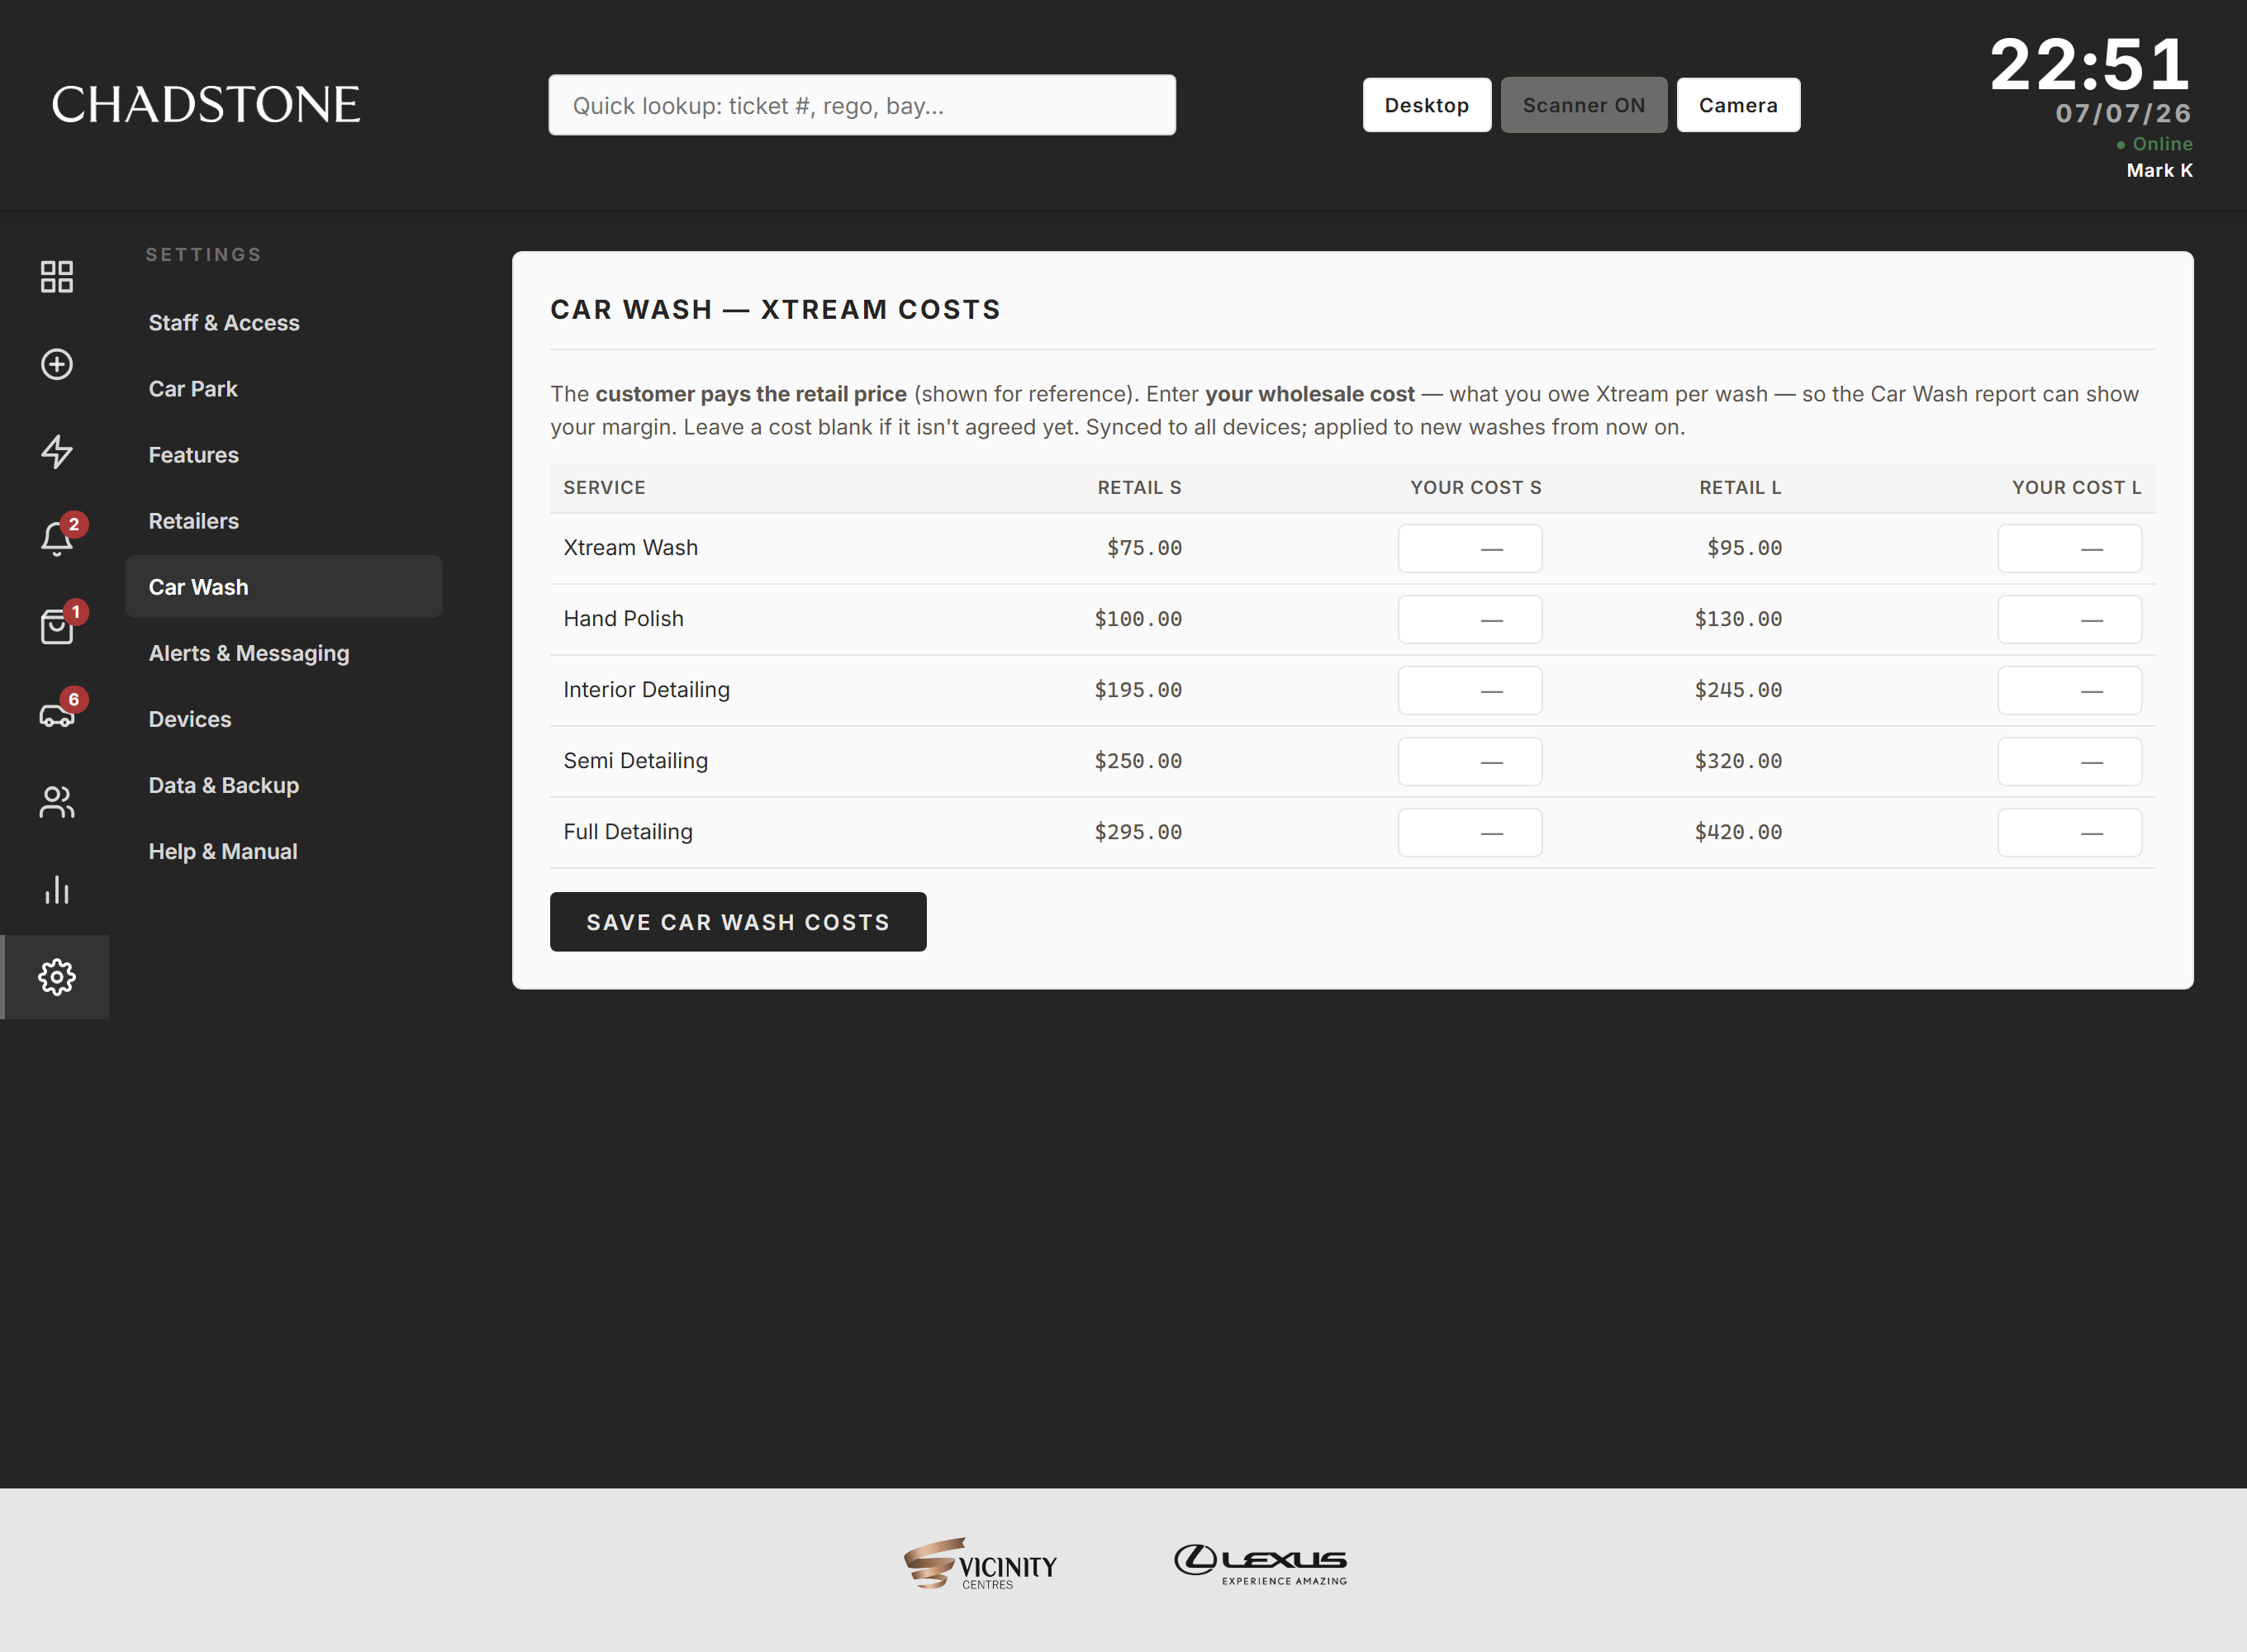
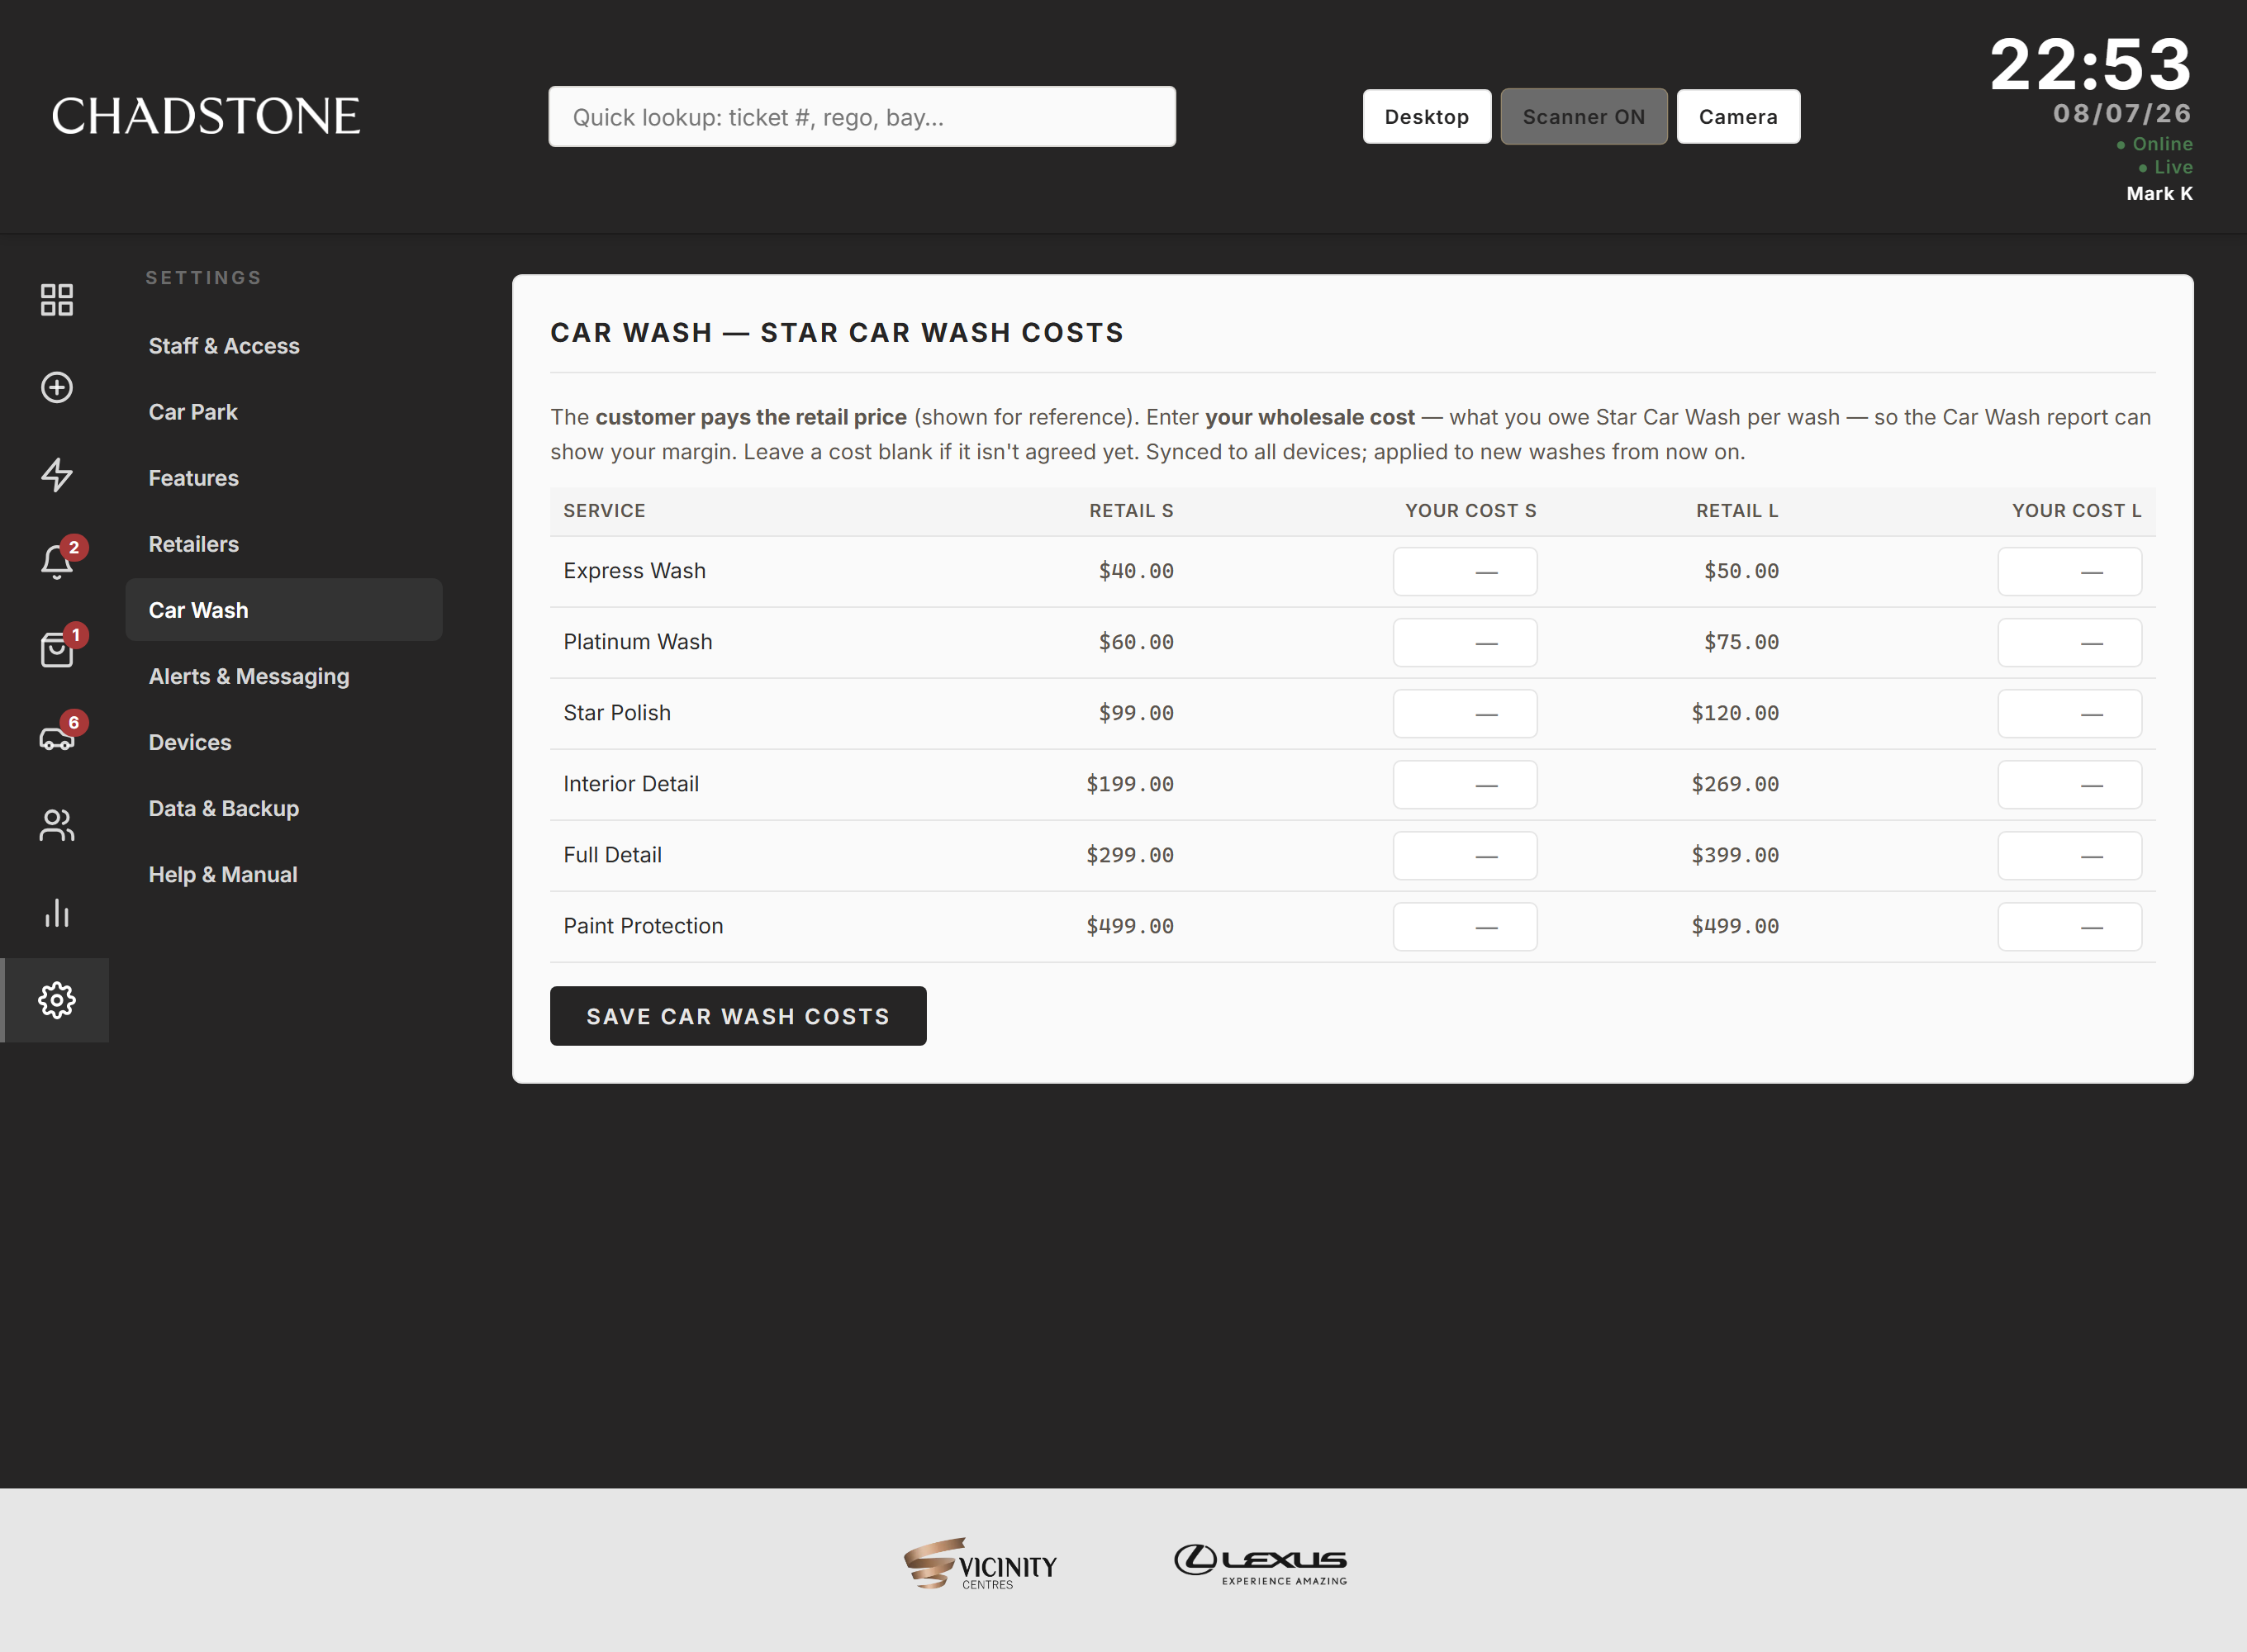
Car wash: switch vendor to Star Car Wash with live menu prices
Chadstone's in-centre wash (Car Park A) is Star Car Wash, not Xtream. Replace
the package list and prices with Star's real menu, scraped from
starcarwash.com.au/centres/chadstone-1 (Sedan = Small, SUV/4WD = Large;
X-Large/XXL are a checkout override):

  Express Wash    $40 / $50
  Platinum Wash   $60 / $75
  Star Polish     $99 / $120
  Interior Detail $199 / $269
  Full Detail     $299 / $399
  Paint Protection $499 / $499

- WASH_PACKAGES + the New Entry picker options updated.
- Rename "Xtream" → "Star Car Wash" everywhere (picker label, Settings costs,
  Car Wash report, comments, manual, decks) and add the Star reference link/phone.
- Regenerated the Settings → Car Wash manual screenshot.

diff --git a/index_v2.html b/index_v2.html
@@ -1597,15 +1597,16 @@ body.dark-mode .scan-banner {
     <div class="form-grid mobile-hide-now">
       <div class="form-field">
         <label class="form-label">Car wash (optional)
-          <span style="font-weight:normal;color:var(--text-muted);text-transform:none;letter-spacing:0;font-size:11px;margin-left:6px">Xtream Car Care · added to bill</span>
+          <span style="font-weight:normal;color:var(--text-muted);text-transform:none;letter-spacing:0;font-size:11px;margin-left:6px">Star Car Wash · added to bill</span>
         </label>
         <select id="f-wash-service" class="form-select" onchange="updateWashPriceHint('f')">
           <option value="">— No car wash —</option>
-          <option value="xtream">Xtream Wash</option>
-          <option value="hand_polish">Hand Polish</option>
-          <option value="interior">Interior Detailing</option>
-          <option value="semi">Semi Detailing</option>
-          <option value="full">Full Detailing</option>
+          <option value="express">Express Wash</option>
+          <option value="platinum">Platinum Wash</option>
+          <option value="polish">Star Polish</option>
+          <option value="interior">Interior Detail</option>
+          <option value="full">Full Detail</option>
+          <option value="paint">Paint Protection</option>
         </select>
       </div>
       <div class="form-field">
@@ -2200,7 +2201,7 @@ body.dark-mode .scan-banner {
   <div class="section rep-section" data-repgroup="payments">
     <div class="section-header">
       <div class="section-title">Car Wash</div>
-      <div style="font-size:11px;color:var(--text-muted);font-style:italic">Xtream Car Care · paid on the valet bill, settle with Xtream separately</div>
+      <div style="font-size:11px;color:var(--text-muted);font-style:italic">Star Car Wash · paid on the valet bill, settle with Star separately</div>
     </div>
     <div id="rep-carwash"><div class="empty">No car washes in this range</div></div>
   </div>
@@ -2625,10 +2626,10 @@ body.dark-mode .scan-banner {
 
   <div class="section set-section" data-setgroup="carwash">
     <div class="section-header">
-      <div class="section-title">Car Wash — Xtream Costs</div>
+      <div class="section-title">Car Wash — Star Car Wash Costs</div>
     </div>
     <div style="font-size:13px;color:var(--text-muted);line-height:1.6;margin-bottom:12px">
-      The <strong>customer pays the retail price</strong> (shown for reference). Enter <strong>your wholesale cost</strong> — what you owe Xtream per wash — so the Car Wash report can show your margin. Leave a cost blank if it isn't agreed yet. Synced to all devices; applied to new washes from now on.
+      The <strong>customer pays the retail price</strong> (shown for reference). Enter <strong>your wholesale cost</strong> — what you owe Star Car Wash per wash — so the Car Wash report can show your margin. Leave a cost blank if it isn't agreed yet. Synced to all devices; applied to new washes from now on.
     </div>
     <div id="wash-cost-table"></div>
     <button class="btn btn-primary" onclick="saveWashCost()" style="margin-top:14px">Save Car Wash Costs</button>
@@ -3283,19 +3284,22 @@ function fmtMoney(amount) {
 }
 
 // ═══════════════════════════════════════════════════
-// CAR WASH — Xtream Car Care (in-centre)
+// CAR WASH — Star Car Wash (Chadstone, Car Park A)
 // Customer pays the menu price on the valet bill; valet drives the car to/from
-// Xtream and settles with them separately. Small = sedan/hatch, Large = SUV/4WD.
+// Star Car Wash and settles with them separately. Small = sedan/hatch,
+// Large = SUV/4WD (Star's X-Large/XXL sizes → override the price at checkout).
+// Menu: starcarwash.com.au/centres/chadstone-1 · 03 9695 5406.
 // An entry's carWash record:
 //   { service, size, price, status, requestedAt, doneAt, settledAt, settledBy }
-// status: 'requested' (booked) → 'at_wash' (with Xtream) → 'ready' (back, clean)
+// status: 'requested' (booked) → 'at_wash' (with Star) → 'ready' (back, clean)
 // ═══════════════════════════════════════════════════
 const WASH_PACKAGES = [
-  { key: 'xtream',      name: 'Xtream Wash',        small: 75,  large: 95  },
-  { key: 'hand_polish', name: 'Hand Polish',        small: 100, large: 130 },
-  { key: 'interior',    name: 'Interior Detailing', small: 195, large: 245 },
-  { key: 'semi',        name: 'Semi Detailing',     small: 250, large: 320 },
-  { key: 'full',        name: 'Full Detailing',     small: 295, large: 420 },
+  { key: 'express',   name: 'Express Wash',     small: 40,  large: 50  },
+  { key: 'platinum',  name: 'Platinum Wash',    small: 60,  large: 75  },
+  { key: 'polish',    name: 'Star Polish',      small: 99,  large: 120 },
+  { key: 'interior',  name: 'Interior Detail',  small: 199, large: 269 },
+  { key: 'full',      name: 'Full Detail',      small: 299, large: 399 },
+  { key: 'paint',     name: 'Paint Protection', small: 499, large: 499 },
 ];
 const WASH_STATUS_LABELS = { requested: 'Wash booked', at_wash: 'At car wash', ready: 'Washed — back' };
 function washPackage(key) { return WASH_PACKAGES.find(p => p.key === key) || null; }
@@ -3305,7 +3309,7 @@ function washLabel(cw) {
   const p = washPackage(cw.service);
   return (p ? p.name : cw.service) + (cw.size === 'large' ? ' (L)' : ' (S)');
 }
-// Wholesale cost owed to Xtream per package/size, set by the manager in
+// Wholesale cost owed to Star Car Wash per package/size, set by the manager in
 // Settings → Car Wash (cloudSettings.washCost = { service: {small, large} }).
 function getWashCost(service, size) {
   const t = (typeof cloudSettings !== 'undefined' && cloudSettings && cloudSettings.washCost) || null;
@@ -4954,7 +4958,7 @@ function confirmCheckout() {
   if (incidentRec.condition === 'damage') cloudAudit('return_damage', 'entry', e.id, { ticket: e.ticket, ack: incidentRec.ack });
   // Car wash is charged on top of the parking/valet fee and paid on this same
   // bill; record when it was collected (kept separate from totalFee so parking
-  // revenue stays clean and the Xtream settlement is easy to total).
+  // revenue stays clean and the Star Car Wash settlement is easy to total).
   if (e.carWash && e.carWash.service) e.carWash.paidAt = e.timeOut;
   e.parkingFee = payStatus === 'comp' ? 0 : parkingFee;
   e.valetFee = payStatus === 'comp' ? 0 : valetFee;
@@ -5402,7 +5406,7 @@ function saveLoyaltySettings() {
   if (typeof quickToast === 'function') quickToast(enabled ? ('✓ Loyalty on — free valet every ' + cfg.threshold + ' visits') : '✓ Loyalty rewards turned off');
   try { const cv = document.getElementById('view-customers'); if (cv && cv.classList.contains('active')) renderCustomers(); } catch (e) {}
 }
-// Car wash wholesale (Xtream) cost editor — one row per package, Small + Large.
+// Car wash wholesale (Star Car Wash) cost editor — one row per package, Small + Large.
 function renderWashSettings() {
   const c = document.getElementById('wash-cost-table');
   if (!c) return;
@@ -9722,7 +9726,7 @@ function renderRepeatCustomers(filtered) {
 }
 
 // Car Wash: washes in range — collected vs still on site — with what you owe
-// Xtream (cost) and your margin, plus a per-service settlement table.
+// Star Car Wash (cost) and your margin, plus a per-service settlement table.
 function renderCarWash(filtered) {
   const c = document.getElementById('rep-carwash');
   if (!c) return;
@@ -9755,7 +9759,7 @@ function renderCarWash(filtered) {
   const cards = [
     ['Washes', String(washes.length), `${collected.length} collected · ${pending.length} on site`, 'var(--maroon)'],
     ['Charged (collected)', fmtMoney(collectedTotal), 'paid by customers', 'var(--green)'],
-    ['Owed to Xtream', haveCosts ? fmtMoney(costTotal) : '—', haveCosts ? `cost of ${costKnown} wash${costKnown !== 1 ? 'es' : ''}` : 'set costs in Settings → Car Wash', 'var(--maroon)'],
+    ['Owed to Star', haveCosts ? fmtMoney(costTotal) : '—', haveCosts ? `cost of ${costKnown} wash${costKnown !== 1 ? 'es' : ''}` : 'set costs in Settings → Car Wash', 'var(--maroon)'],
     ['Your margin', haveCosts ? fmtMoney(marginTotal) : '—', haveCosts ? 'charged − cost' : 'enter wholesale costs', 'var(--bronze)'],
   ];
   if (pendingTotal) cards.push(['Still on site', fmtMoney(pendingTotal), `${pending.length} not checked out`, 'var(--bronze)']);
@@ -9791,7 +9795,7 @@ function renderCarWash(filtered) {
       + `<tbody>${rows}${totalRow}</tbody></table></div>`
     : '';
 
-  let note = `<div style="margin-top:14px;font-size:12px;color:var(--text-muted)">Customers pay washes on the valet bill (on top of parking). “Owed to Xtream” is your wholesale cost — settle it with Xtream separately; the margin is yours.`;
+  let note = `<div style="margin-top:14px;font-size:12px;color:var(--text-muted)">Customers pay washes on the valet bill (on top of parking). “Owed to Star” is your wholesale cost — settle it with Star Car Wash separately; the margin is yours.`;
   if (unknownCost > 0) note += ` <b>${unknownCost} collected wash${unknownCost !== 1 ? 'es have' : ' has'} no cost set</b> (marked *) — add them in Settings → Car Wash.`;
   note += '</div>';
   c.innerHTML = repCards(cards) + table + note;

diff --git a/manual.html b/manual.html
@@ -246,16 +246,16 @@
 
   <!-- 10 -->
   <h2 id="carwash">10. Car wash service</h2>
-  <p>Valet customers can add a car wash from <b>Xtream Car Care</b> in the centre. The valet looks after the whole thing and the customer pays for it on the same valet bill.</p>
+  <p>Valet customers can add a car wash from <b>Star Car Wash</b> in the centre. The valet looks after the whole thing and the customer pays for it on the same valet bill.</p>
   <h3>How it works</h3>
   <ol class="steps">
     <li><b>Add the wash</b> — at check-in (the "Car wash" picker) or anytime while the car is parked (the droplet icon on the Active Cars row). Choose the package and vehicle size (Small = sedan/hatch, Large = SUV/4WD); the price fills in automatically.</li>
-    <li><b>Take it to Xtream</b> — valet staff drive the car over and tap <span class="pill">Taken to car wash</span>. The car shows a maroon "At car wash" chip.</li>
+    <li><b>Take it to Star Car Wash</b> — valet staff drive the car over and tap <span class="pill">Taken to car wash</span>. The car shows a maroon "At car wash" chip.</li>
     <li><b>Bring it back</b> — once washed, drive it back and tap <span class="pill">✓ Back from wash</span>. The chip turns green "Washed — back".</li>
     <li><b>Customer pays once</b> — at checkout the wash appears as its own line and is added to the parking total. The customer pays valet for everything together.</li>
   </ol>
-  <div class="note"><b>Settling with Xtream:</b> washes are collected on the valet bill and tracked separately from parking revenue. Enter your <b>wholesale cost</b> per package in <b>Settings → Car Wash</b>, and the <b>Reports → Payments → Car Wash</b> panel shows, per service, what you charged, what you owe Xtream, and your margin.</div>
-  <figure class="shot"><img src="screenshots/manual/settings-carwash.png" alt="Settings — Car Wash costs"><figcaption><b>Settings → Car Wash</b> — enter your Xtream wholesale cost per package and size (retail shown for reference) so the report can work out your margin.</figcaption></figure>
+  <div class="note"><b>Settling with Star Car Wash:</b> washes are collected on the valet bill and tracked separately from parking revenue. Enter your <b>wholesale cost</b> per package in <b>Settings → Car Wash</b>, and the <b>Reports → Payments → Car Wash</b> panel shows, per service, what you charged, what you owe Star Car Wash, and your margin.</div>
+  <figure class="shot"><img src="screenshots/manual/settings-carwash.png" alt="Settings — Car Wash costs"><figcaption><b>Settings → Car Wash</b> — enter your Star Car Wash wholesale cost per package and size (retail shown for reference) so the report can work out your margin.</figcaption></figure>
   <p>Prices are in the <a href="#pricing">pricing reference</a>. To change or remove a wash, tap the chip or droplet to reopen the dialog.</p>
 
   <!-- 11 -->
@@ -298,7 +298,7 @@
     <tr><td><b>Staff &amp; Access</b></td><td>Add/remove staff logins and passwords, and security settings. Each login lets the app credit work to the right person.</td></tr>
     <tr><td><b>Car Park</b></td><td>Capacity (open spots) for the occupancy gauge, and the <b>overstay alert</b> threshold (hours) that flags long-staying cars on Active Cars.</td></tr>
     <tr><td><b>Retailers</b></td><td>The list of stores used for validations and charge-to-shop accounts. Edit this to match the centre's tenants.</td></tr>
-    <tr><td><b>Car Wash</b></td><td>Your wholesale cost (what you owe Xtream) per package and size. Lets the Car Wash report show your margin. The customer always pays the retail menu price.</td></tr>
+    <tr><td><b>Car Wash</b></td><td>Your wholesale cost (what you owe Star Car Wash) per package and size. Lets the Car Wash report show your margin. The customer always pays the retail menu price.</td></tr>
     <tr><td><b>Alerts &amp; Messaging</b></td><td>Customer SMS (the QR ticket text is sent via ClickSend) and the end-of-day close reminder.</td></tr>
     <tr><td><b>Devices</b></td><td>Key-tag printer (BIXOLON via the WebPrint bridge), Square Terminal device ID, the camera scanner, and keep-screen-awake.</td></tr>
     <tr><td><b>Data &amp; Backup</b></td><td>Export/import the data and check cloud-sync status.</td></tr>
@@ -329,16 +329,17 @@
     <tr><td>High-demand periods <span style="color:#6f6b66">(Black Friday week → weekend after Boxing Day)</span></td><td class="mono">$60</td></tr>
   </table>
   <p>The app auto-applies the <b>weekday</b> or <b>weekend</b> rate based on the day. Public holidays and the <b>$60</b> high-demand rate are not auto-detected — staff override the amount at checkout on those days. A car wash, if added, is charged on top. <b>Loyalty:</b> every 11 paid visits earns 1 free valet (by number plate) — not yet automated in the app.</p>
-  <h3>Car wash (Xtream Car Care)</h3>
+  <h3>Car wash (Star Car Wash — Car Park A)</h3>
   <table>
     <tr><th>Service</th><th>Small (sedan/hatch)</th><th>Large (SUV/4WD)</th></tr>
-    <tr><td>Xtream Wash (steam wash)</td><td class="mono">$75</td><td class="mono">$95</td></tr>
-    <tr><td>Hand Polish (+wax &amp; polish)</td><td class="mono">$100</td><td class="mono">$130</td></tr>
-    <tr><td>Interior Detailing</td><td class="mono">$195</td><td class="mono">$245</td></tr>
-    <tr><td>Semi Detailing</td><td class="mono">$250</td><td class="mono">$320</td></tr>
-    <tr><td>Full Detailing</td><td class="mono">$295</td><td class="mono">$420</td></tr>
+    <tr><td>Express Wash</td><td class="mono">$40</td><td class="mono">$50</td></tr>
+    <tr><td>Platinum Wash</td><td class="mono">$60</td><td class="mono">$75</td></tr>
+    <tr><td>Star Polish</td><td class="mono">$99</td><td class="mono">$120</td></tr>
+    <tr><td>Interior Detail</td><td class="mono">$199</td><td class="mono">$269</td></tr>
+    <tr><td>Full Detail</td><td class="mono">$299</td><td class="mono">$399</td></tr>
+    <tr><td>Paint Protection</td><td class="mono">$499</td><td class="mono">$499</td></tr>
   </table>
-  <p>Paint correction, paint protection and other specialty services are quote-only — ask Xtream.</p>
+  <p>Prices are Star Car Wash's Sedan (Small) and SUV/4WD (Large) menu rates. Extra-large / XXL vehicles are priced higher — override the amount at checkout. Star Car Wash · Car Park A · 03 9695 5406 · <a href="https://www.starcarwash.com.au/centres/chadstone-1">starcarwash.com.au</a>.</p>
 
   <!-- 17 -->
   <h2 id="troubleshooting">17. Troubleshooting</h2>

diff --git a/MANUAL.md b/MANUAL.md
@@ -132,14 +132,14 @@ Customers leave purchases with stores; valet collects everything and loads the c
 The Bags badge shows open jobs.
 
 ## 10. Car wash service
-Valet customers can add a car wash from **Xtream Car Care** in the centre. Valet handles it end-to-end and the customer pays on the same valet bill.
+Valet customers can add a car wash from **Star Car Wash** in the centre. Valet handles it end-to-end and the customer pays on the same valet bill.
 
 1. **Add the wash** — at check-in (the "Car wash" picker) or anytime parked (the droplet icon on Active Cars). Choose package and size (Small = sedan/hatch, Large = SUV/4WD); the price fills in automatically.
-2. **Take it to Xtream** — valet drives it over, tap **Taken to car wash** (chip turns maroon "At car wash").
+2. **Take it to Star Car Wash** — valet drives it over, tap **Taken to car wash** (chip turns maroon "At car wash").
 3. **Bring it back** — tap **✓ Back from wash** (chip turns green "Washed — back").
 4. **Customer pays once** — at checkout the wash is its own line, added to the parking total.
 
-> **Settling with Xtream:** wash money is tracked separately from parking. Enter your **wholesale cost** per package in *Settings → Car Wash*; the *Reports → Payments → Car Wash* panel then shows, per service, what you charged, what you owe Xtream, and your margin.
+> **Settling with Star Car Wash:** wash money is tracked separately from parking. Enter your **wholesale cost** per package in *Settings → Car Wash*; the *Reports → Payments → Car Wash* panel then shows, per service, what you charged, what you owe Star Car Wash, and your margin.
 
 ![Settings — Car Wash costs](screenshots/manual/settings-carwash.png)
 
@@ -182,7 +182,7 @@ Export any report to **CSV** or a print-ready **PDF**.
 | **Staff & Access** | Staff logins/passwords and security. |
 | **Car Park** | Capacity (open spots) for the occupancy gauge, and the **overstay alert** threshold (hours). |
 | **Retailers** | Store list for validations and charge-to-shop. |
-| **Car Wash** | Your wholesale cost per Xtream package/size, so the Car Wash report shows your margin. Customer always pays the retail menu price. |
+| **Car Wash** | Your wholesale cost per Star Car Wash package/size, so the Car Wash report shows your margin. Customer always pays the retail menu price. |
 | **Alerts & Messaging** | Customer SMS (QR ticket via ClickSend) and the end-of-day close reminder. |
 | **Devices** | Key-tag printer (BIXOLON via WebPrint), Square Terminal ID, scanner, keep-screen-awake. |
 | **Data & Backup** | Export/import data; cloud-sync status. |
@@ -207,17 +207,18 @@ Export any report to **CSV** or a print-ready **PDF**.
 
 The app auto-applies the weekday or weekend rate by the day; public holidays and the $60 high-demand rate are staff-overridden at checkout. A car wash, if added, is charged on top. Loyalty: every 11 paid visits = 1 free (by number plate), not yet automated.
 
-**Car wash (Xtream Car Care)**
+**Car wash (Star Car Wash — Car Park A)**
 
 | Service | Small (sedan/hatch) | Large (SUV/4WD) |
 |---|---|---|
-| Xtream Wash (steam wash) | $75 | $95 |
-| Hand Polish (+wax & polish) | $100 | $130 |
-| Interior Detailing | $195 | $245 |
-| Semi Detailing | $250 | $320 |
-| Full Detailing | $295 | $420 |
+| Express Wash | $40 | $50 |
+| Platinum Wash | $60 | $75 |
+| Star Polish | $99 | $120 |
+| Interior Detail | $199 | $269 |
+| Full Detail | $299 | $399 |
+| Paint Protection | $499 | $499 |
 
-Paint correction, paint protection and other specialty services are quote-only.
+Small = Sedan, Large = SUV/4WD (Star's menu rates). X-Large / XXL vehicles cost more — override at checkout. Star Car Wash · Car Park A · 03 9695 5406 · starcarwash.com.au/centres/chadstone-1.
 
 ## 17. Troubleshooting
 | Problem | What to do |

diff --git a/deck-management.md b/deck-management.md
@@ -82,7 +82,7 @@ Operations & Performance Review
 ## Slide 8 — Revenue & reconciliation
 - Flat valet fee per visit (weekday $35 / weekend $55), applied automatically
 - Nightly cash-up: card vs cash split, tips, outstanding flagged, drawer reconciled
-- Car wash revenue tracked separately, with the Xtream settlement
+- Car wash revenue tracked separately, with the Star Car Wash settlement
 - Clean audit trail of every transaction
 
 *Speaker notes:* Reassure on financial control and transparency — the drawer reconciles every night.
@@ -92,7 +92,7 @@ Operations & Performance Review
 
 ## Slide 9 — Added services (incremental value)
 - **Hands-free shopping** — bags collected from stores, loaded into the car
-- **Car wash concierge** — Xtream wash added to the valet bill; we handle transport both ways
+- **Car wash concierge** — Star Car Wash wash added to the valet bill; we handle transport both ways
 - Both lift the experience *and* generate incremental revenue/margin
 
 *Speaker notes:* Position these as differentiators that a standard car park can't offer.

diff --git a/deck-staff-training.md b/deck-staff-training.md
@@ -121,7 +121,7 @@ Running the Chadstone valet, step by step
 
 ## Slide 12 — Car wash
 1. **Add** the wash (check-in or the droplet on Active Cars) — pick service + size
-2. **Taken to car wash** when you drive it to Xtream
+2. **Taken to car wash** when you drive it to Star Car Wash
 3. **✓ Back from wash** when it returns
 4. Customer **pays on the same bill** at checkout
 